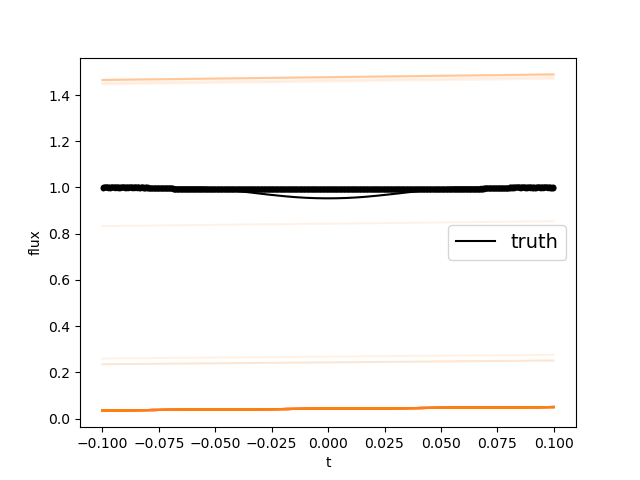
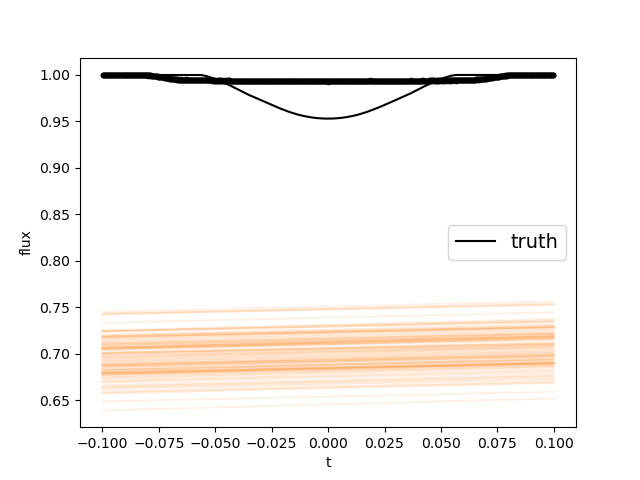
fix mcmc_result

diff --git a/ring_transit/research_umetani/ring_planet.py b/ring_transit/research_umetani/ring_planet.py
@@ -422,7 +422,7 @@ nwalkers, ndim = pos.shape
 #backend.reset(nwalkers, ndim)
 
 
-max_n = 100000
+max_n = 5000
 index = 0
 autocorr = np.empty(max_n)
 old_tau = np.inf
@@ -475,9 +475,9 @@ if __name__ ==  '__main__':
     ###step visualization###
     fig, axes = plt.subplots(ndim, figsize=(10, 7), sharex=True)
     samples = sampler.get_chain()
-    labels = ['rp_rs', 'theta', 'phi', 'r_in', 'r_out']
+    #labels = ['rp_rs', 'theta', 'phi', 'r_in', 'r_out']
     #labels = ['theta', 'phi']
-    #labels = mcmc_params
+    labels = mcmc_params
     for i in range(ndim):
         ax = axes[i]
         ax.plot(samples[:, :, i], "k", alpha=0.3)
@@ -493,10 +493,13 @@ if __name__ ==  '__main__':
     samples = sampler.flatchain
     flat_samples = sampler.get_chain(discard=1000, thin=15, flat=True)
     print(flat_samples.shape)
+    """
     truths = []
     for param in labels:
         truths.append(pdic_saturnlike[param])
     fig = corner.corner(flat_samples, labels=labels, truths=truths);
+    """
+    fig = corner.corner(flat_samples, labels=labels);
     plt.savefig('corner.png')
     plt.close()
 
@@ -518,11 +521,9 @@ if __name__ ==  '__main__':
     inds = np.random.randint(len(flat_samples), size=100)
     for ind in inds:
         sample = flat_samples[ind]
-        plt.plot(t, np.dot(np.vander(t, 2), sample[:2]), "C1", alpha=0.1)
-    for s in samples[np.random.randint(len(samples), size=24)]:
-        plt.plot(t, ring_model(t, pdic, mcmc_pvalues), color="#4682b4", alpha=0.3)
+        plt.plot(t, ring_model(t, pdic, sample), "C1", alpha=0.1)
     plt.errorbar(t, flux_data, yerr=flux_err_data, fmt=".k", capsize=0)
-    plt.plot(t, ymodel, "k", label="truth")
+    #plt.plot(t, ymodel, "k", label="truth")
     plt.legend(fontsize=14)
     #plt.xlim(0, 10)
     plt.xlabel("t")
